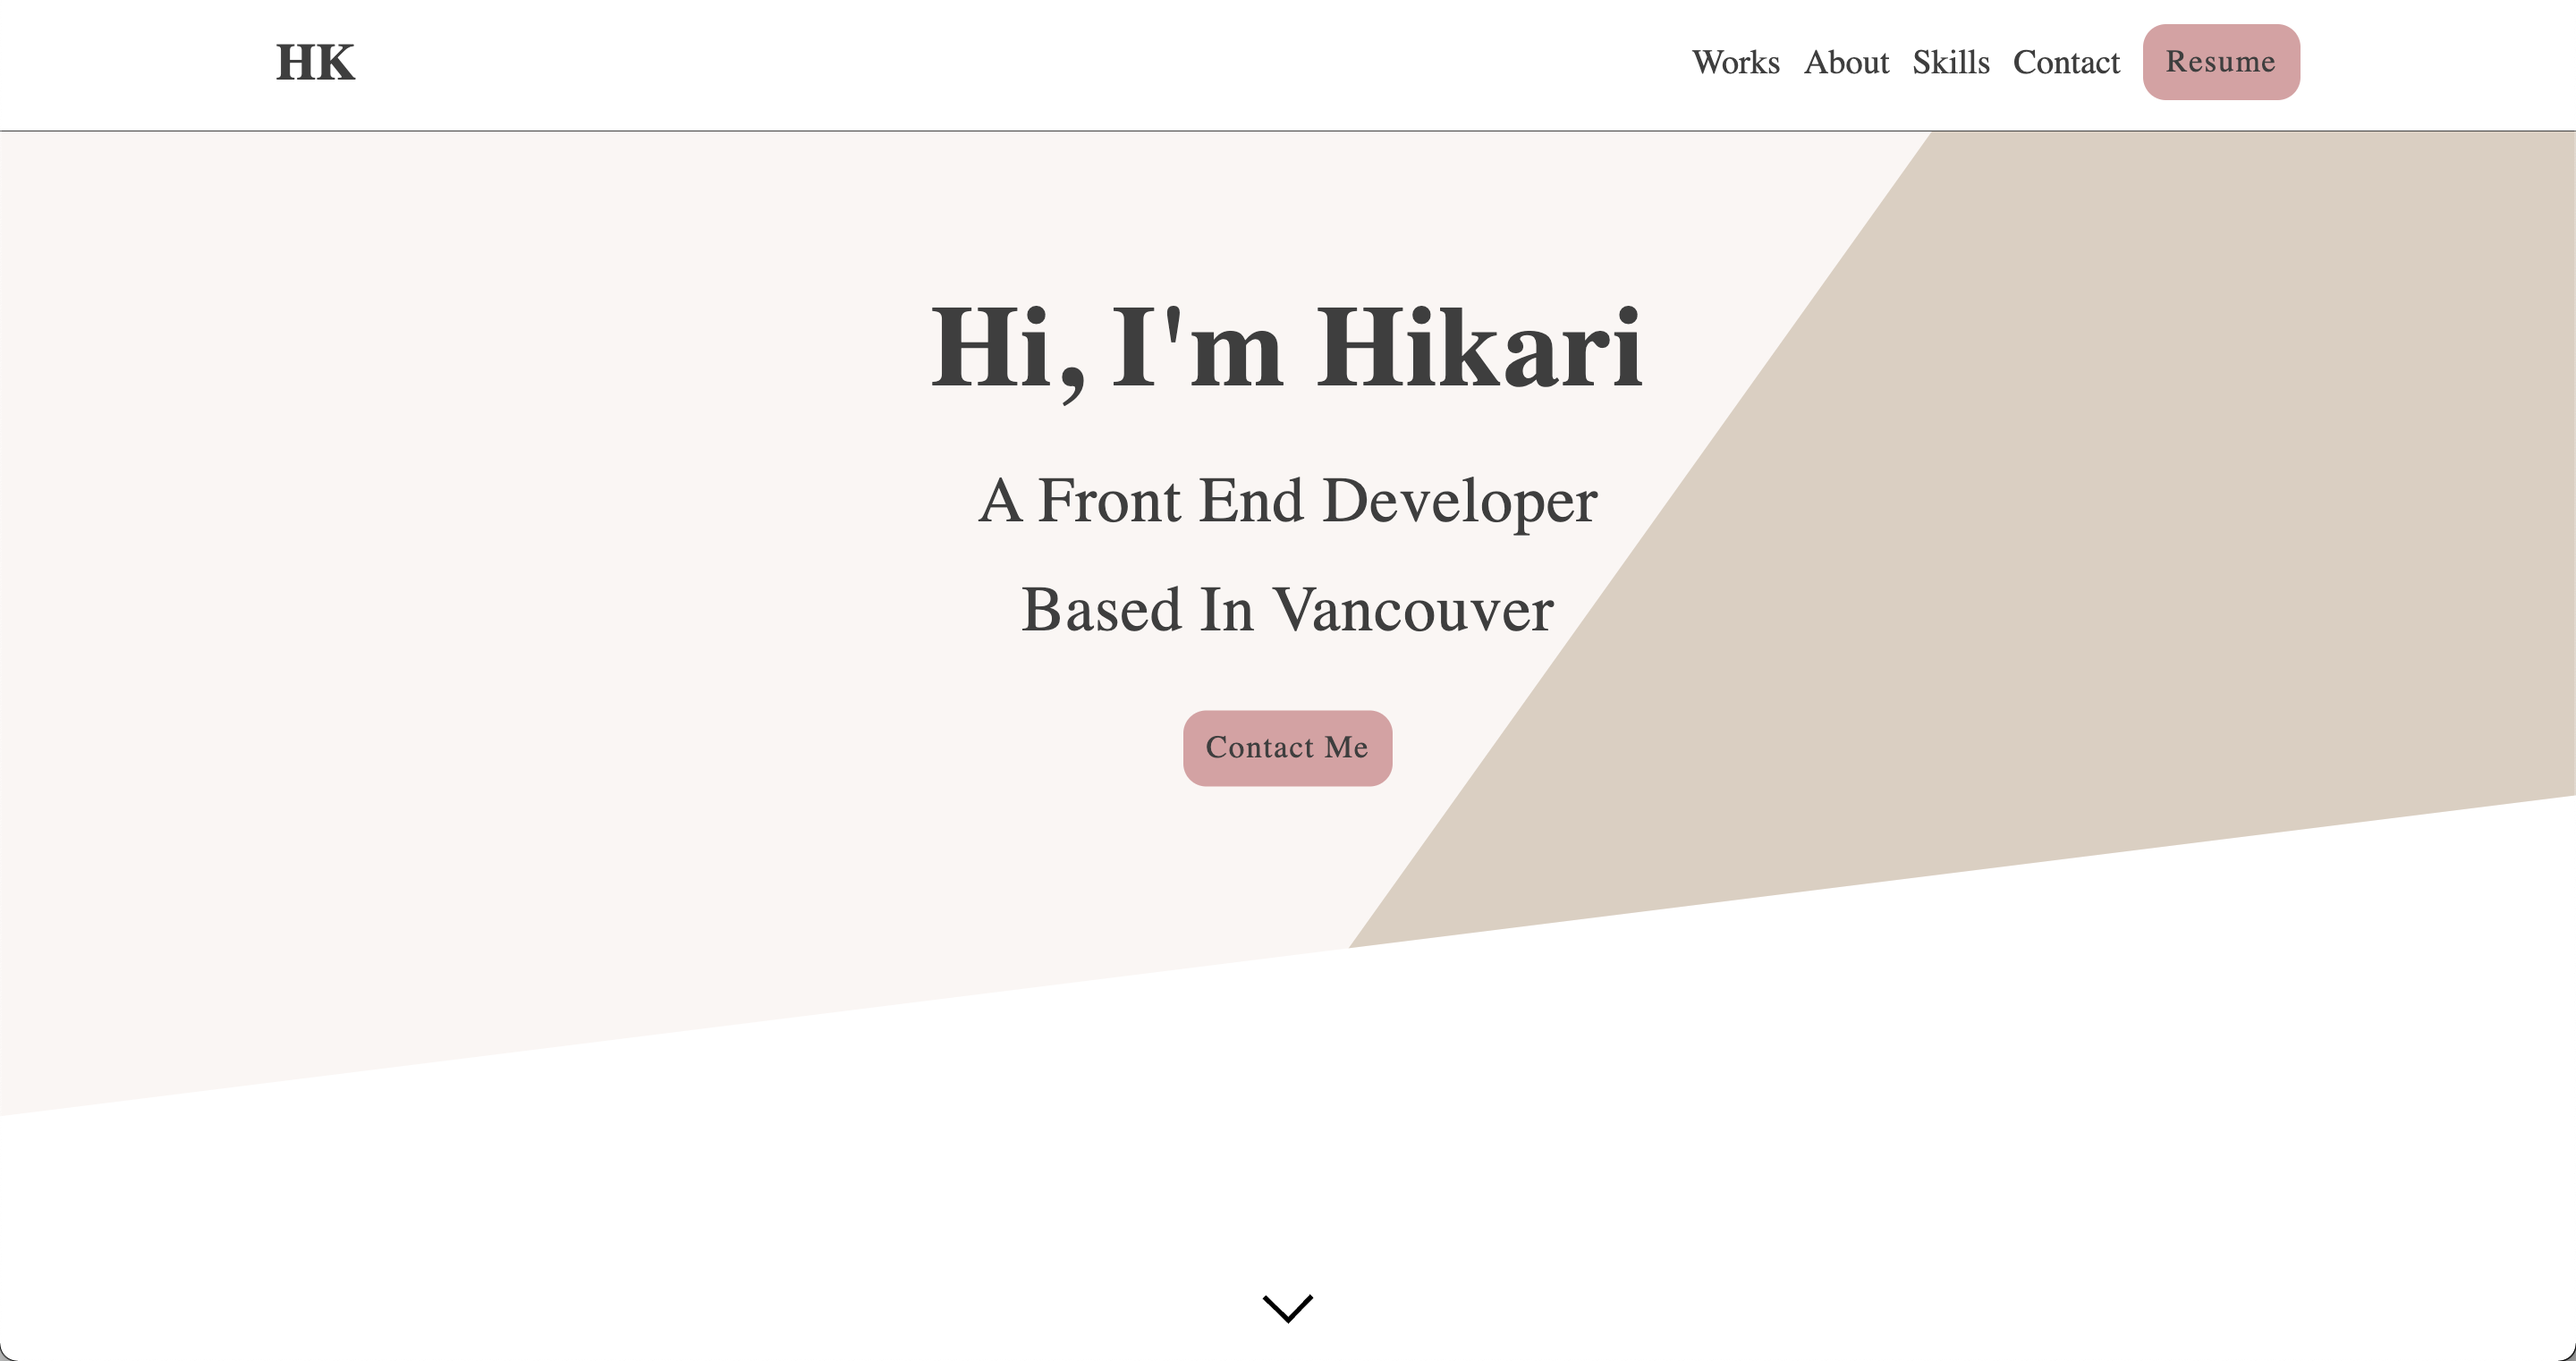
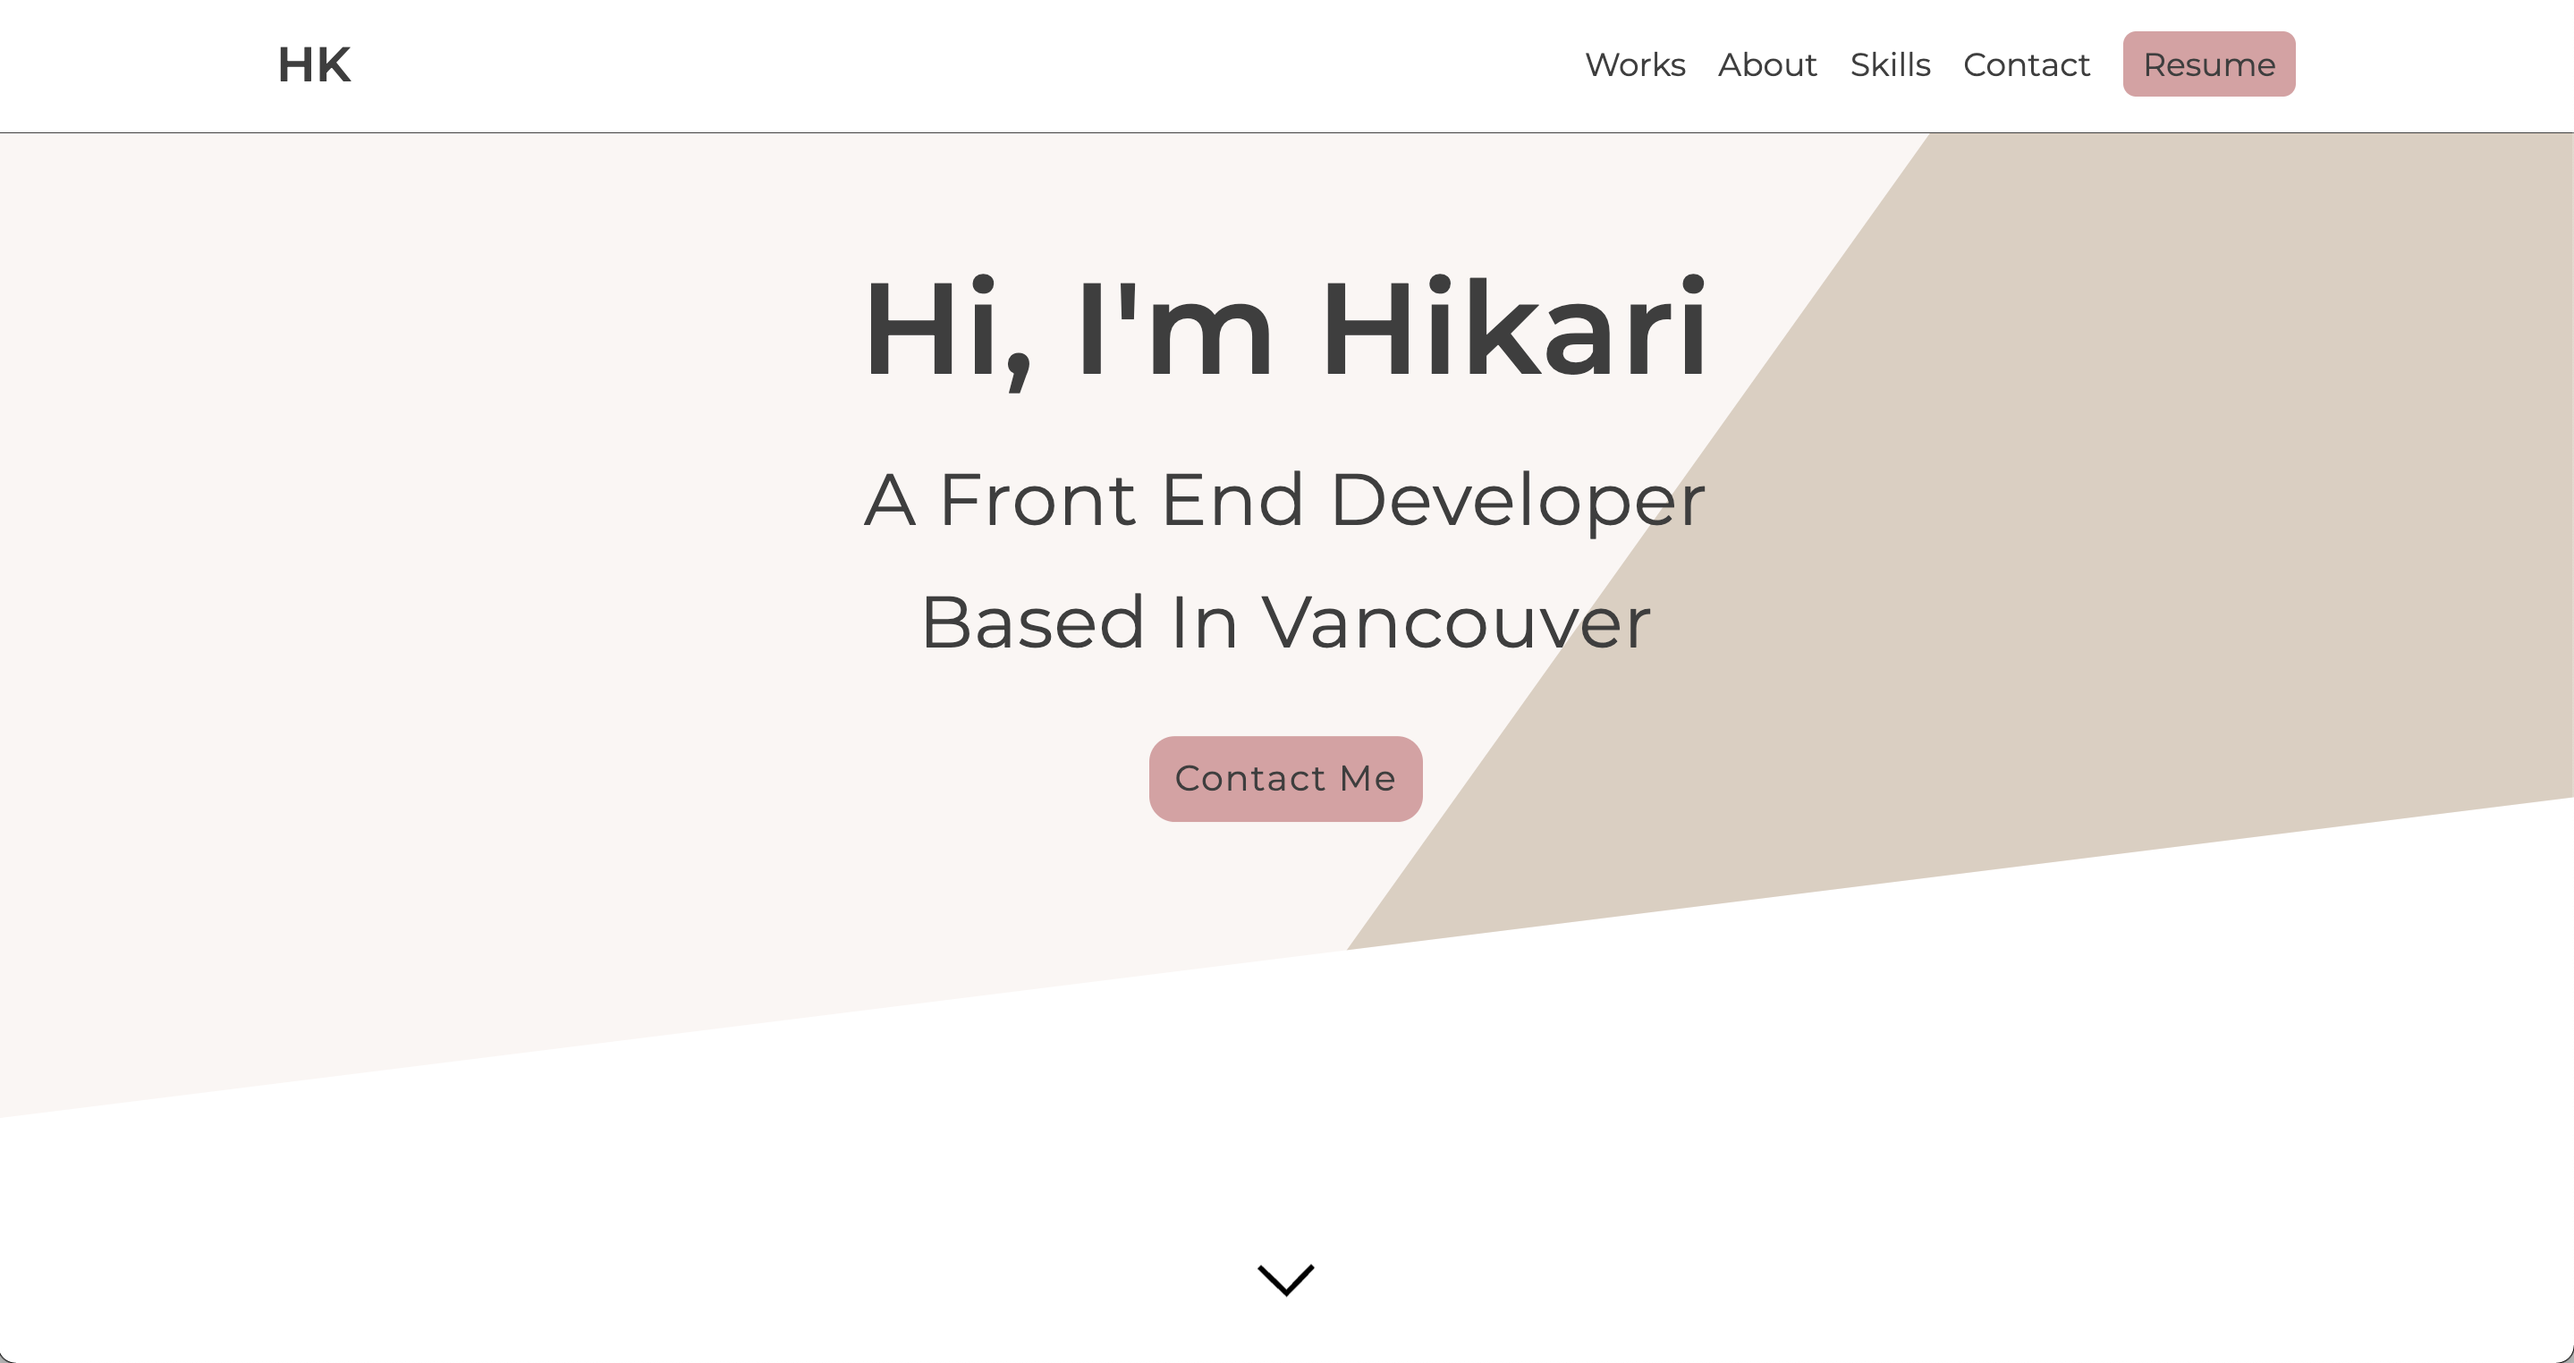
changed font family and added read me

diff --git a/src/components/Navbar/DisplayNav.jsx b/src/components/Navbar/DisplayNav.jsx
@@ -1,6 +1,6 @@
 import React from "react";
 import { Link } from "gatsby";
-import { displayNav, header, btn, ul, li } from "./displaynav.module.scss";
+import { displayNav, header, accent, ul, li } from "./displaynav.module.scss";
 import resume from "../../images/Resume_HikariKobe.pdf";
 import { motion } from "framer-motion";
 const DisplayNav = () => {
@@ -98,8 +98,9 @@ const DisplayNav = () => {
           >
             <Link to="/contact">Contact</Link>
           </motion.li>
-          <motion.button
-            className={`${li} ${btn}`}
+          <motion.li
+            className={`${li} ${accent}`}
+            // className={li}
             initial={{
               opacity: 0,
               y: "-100%",
@@ -115,7 +116,7 @@ const DisplayNav = () => {
             }}
           >
             <a href={resume}>Resume</a>
-          </motion.button>
+          </motion.li>
         </ul>
       </nav>
     </>

diff --git a/src/styles/mixin.scss b/src/styles/mixin.scss
@@ -1,8 +1,9 @@
 @import url("https://fonts.googleapis.com/css2?family=Forum&display=swap");
 @import url("https://unpkg.com/ress/dist/ress.min.css");
-
 @import url("https://fonts.googleapis.com/css2?family=Forum&display=swap");
 
+@import url("https://fonts.googleapis.com/css2?family=Montserrat&display=swap");
+@import url("https://fonts.googleapis.com/css2?family=Poppins:wght@500&display=swap");
 //color
 $primary-color: #d5c6b9;
 $secondary-color: #fdf7f2;
@@ -14,14 +15,15 @@ $accent-bg-color: #ddcec0;
 
 $primary-font-color: #3e3e3e;
 
-$second-font-stack: "Karla", sans-serif;
+// $second-font-stack: "Karla", sans-serif;
+$second-font-stack: "Montserrat", sans-serif;
 
 //font-size
 
 $font-size-h1: 3.8rem;
 $font-size-h2: 3.2rem;
 $font-size-h3: 2rem;
-$font-size-p: 1.4rem;
+$font-size-p: 1.6rem;
 
 @mixin tablet {
   @media only screen and (min-width: 780px) {

diff --git a/src/styles/global.scss b/src/styles/global.scss
@@ -2,16 +2,19 @@
 @import url("https://fonts.googleapis.com/css2?family=Forum&display=swap");
 @import url("https://unpkg.com/ress/dist/ress.min.css");
 @import url("https://fonts.googleapis.com/css2?family=Karla&display=swap");
+@import url("https://fonts.googleapis.com/css2?family=Poppins:wght@500&display=swap");
 
-$font-stack: "Forum", cursive;
-$second-font-stack: "Karla", sans-serif;
+// $font-stack: "Forum", cursive;
+@import url("https://fonts.googleapis.com/css2?family=Montserrat:wght@600&display=swap");
+// $font-stack: "Poppins", sans-serif;
+$font-stack: "Montserrat", sans-serif;
 
 $primary-color: #d5c6b9;
 $primary-bg-color: #fff;
 $primary-font-color: #3e3e3e;
 
 html {
-  font-family: 100% $font-stack;
+  font-family: $font-stack;
   color: $primary-font-color;
   font-size: 62.5%;
 

diff --git a/src/pages/works.module.scss b/src/pages/works.module.scss
@@ -29,29 +29,19 @@
   font-size: mixin.$font-size-p;
   text-align: center;
   font-family: mixin.$second-font-stack;
-  // animation: blinking 1.5s ease-in-out infinite alternate;
 }
-
-// @keyframes blinking {
-//   0% {
-//     opacity: 0;
-//   }
-//   100% {
-//     opacity: 1;
-//   }
-// }
 
 /////
 
 .cardWrapper {
   height: 450px;
-  margin-top: 10%;
+  // margin-top: 10%;
 }
 
 .rowWrapper {
   @include mixin.tablet {
     display: flex;
-    justify-content: space-between;
+    justify-content: center;
     margin-top: 52px;
 
     .cardWrapper {

diff --git a/src/pages/about.module.scss b/src/pages/about.module.scss
@@ -38,6 +38,7 @@
   background-color: mixin.$accent-bg-color;
   border-radius: 8px;
   box-shadow: 20px 10px;
+  font-family: mixin.$second-font-stack;
 
   .h3 {
     padding: 12px 0;
@@ -59,7 +60,7 @@
 .detail {
   justify-content: center;
   width: 90%;
-  font-size: 1.8rem;
+  font-size: mixin.$font-size-p;
   word-break: break-word;
   margin: 24px auto;
   @include mixin.textStyles(none);
@@ -154,7 +155,7 @@
   position: relative;
   border-radius: 50%;
   @include mixin.desktop {
-    margin: 24px auto 12px;
+    margin: 48px auto;
   }
 }
 

diff --git a/src/pages/skills.jsx b/src/pages/skills.jsx
@@ -52,11 +52,11 @@ const skills = () => {
                     <p>CSS3</p>
                   </li>
                   <li>
-                    <SiJavascript size="40px" color="#dca0a2" />
+                    <SiJavascript size="40px" />
                     <p>JavaScript</p>
                   </li>
                   <li>
-                    <SiTypescript size="40px" />
+                    <SiTypescript size="40px" color="#dca0a2" />
                     <p>TypeScript</p>
                   </li>
                   <li>

diff --git a/src/components/Navbar/displaynav.module.scss b/src/components/Navbar/displaynav.module.scss
@@ -29,9 +29,10 @@
     transition: 0.35s ease;
   }
 }
-
-.btn {
-  @include mixin.mainBtn;
+.accent {
+  background-color: mixin.$accent-color;
+  padding: 8px 12px;
+  border-radius: 8px;
 }
 
 .displayNav {

diff --git a/src/pages/works.jsx b/src/pages/works.jsx
@@ -63,6 +63,7 @@ const Works = () => {
                 }
                 image={cookHelper}
               />
+             
             </div>
           </div>
           <div className={rowWrapper}>

diff --git a/src/components/Animation.jsx b/src/components/Animation.jsx
@@ -9,7 +9,7 @@ function AnimateInView({ children }) {
 
   const variants = {
     moved: { y: 0 },
-    initial: { y: 100 },
+    initial: { y: 50 },
   };
   useEffect(() => {
     if (inView) {

diff --git a/src/components/workcard.module.scss b/src/components/workcard.module.scss
@@ -11,9 +11,8 @@
 
 .overLay {
   background-color: rgba(0, 0, 0, 0.8);
-  border-radius: 16px;
   width: 100%;
-  height: 450px;
+  height: 100%;
   border-radius: 10px;
 }
 

diff --git a/README.md b/README.md
@@ -1,99 +1,32 @@
-<!-- AUTO-GENERATED-CONTENT:START (STARTER) -->
-<p align="center">
-  <a href="https://www.gatsbyjs.com">
-    <img alt="Gatsby" src="https://www.gatsbyjs.com/Gatsby-Monogram.svg" width="60" />
-  </a>
-</p>
-<h1 align="center">
-  Gatsby's hello-world starter
-</h1>
+# My portfolio
 
-Kick off your project with this hello-world boilerplate. This starter ships with the main Gatsby configuration files you might need to get up and running blazing fast with the blazing fast app generator for React.
+My portfolio website built by React and Sass.
 
-_Have another more specific idea? You may want to check out our vibrant collection of [official and community-created starters](https://www.gatsbyjs.com/docs/gatsby-starters/)._
+## Demo Link
 
-## 🚀 Quick start
+- [Hikari's portfolio](https://hikari-kobe-h39qmgtde-hikari7.vercel.app/)
 
-1.  **Create a Gatsby site.**
+![The top image](./src/images/portfolioSite.jpg)
 
-    Use the Gatsby CLI ([install instructions](https://www.gatsbyjs.com/docs/tutorial/part-0/#gatsby-cli)) to create a new site, specifying the hello-world starter.
+## Built With
 
-    ```shell
-    # create a new Gatsby site using the hello-world starter
-    gatsby new my-hello-world-starter https://github.com/gatsbyjs/gatsby-starter-hello-world
-    ```
+- `React` : version 18.2.0
+- `Gatsby` : version 5.3.2
+- `Sass` : version 1.57.1
+- `Framer-motion` : version 8.0.1
 
-1.  **Start developing.**
+## Features
 
-    Navigate into your new site’s directory and start it up.
+- T The website isn't used any CSS libraries such as MUI and Tailwind intentionally to try to prove my well-trained CSS skills. Using Sass helped make the website flexible so I also put animation for interacting with the user more dynamically.
+  I put stylings by CSS modules and also designed with Figma from scratch.
 
-    ```shell
-    cd my-hello-world-starter/
-    gatsby develop
-    ```
+## Challenging Part
 
-1.  **Open the source code and start editing!**
+- Destructuring the work card component that part also needed solid knowledge of CSS positioning for the overlay was confusing at first.
+This part looks simple but I was able to apply the knowledge of fundamental CSS, DOM and props that frontend developer needs.
 
-    Your site is now running at `http://localhost:8000`!
+## Setup
 
-    Note: You'll also see a second link: `http://localhost:8000/___graphql`. This is a tool you can use to experiment with querying your data. Learn more about using this tool in the [Gatsby Tutorial](https://www.gatsbyjs.com/docs/tutorial/part-4/#use-graphiql-to-explore-the-data-layer-and-write-graphql-queries).
-
-    Open the `my-hello-world-starter` directory in your code editor of choice and edit `src/pages/index.js`. Save your changes and the browser will update in real time!
-
-## 🚀 Quick start (Gatsby Cloud)
-
-Deploy this starter with one click on [Gatsby Cloud](https://www.gatsbyjs.com/cloud/):
-
-[<img src="https://www.gatsbyjs.com/deploynow.svg" alt="Deploy to Gatsby Cloud">](https://www.gatsbyjs.com/dashboard/deploynow?url=https://github.com/gatsbyjs/gatsby-starter-hello-world)
-
-## 🧐 What's inside?
-
-A quick look at the top-level files and directories you'll see in a typical Gatsby project.
-
-    .
-    ├── node_modules
-    ├── src
-    ├── .gitignore
-    ├── gatsby-browser.js
-    ├── gatsby-config.js
-    ├── gatsby-node.js
-    ├── gatsby-ssr.js
-    ├── LICENSE
-    ├── package.json
-    └── README.md
-
-1.  **`/node_modules`**: This directory contains all of the modules of code that your project depends on (npm packages) are automatically installed.
-
-1.  **`/src`**: This directory will contain all of the code related to what you will see on the front-end of your site (what you see in the browser) such as your site header or a page template. `src` is a convention for “source code”.
-
-1.  **`.gitignore`**: This file tells git which files it should not track / not maintain a version history for.
-
-1.  **`gatsby-browser.js`**: This file is where Gatsby expects to find any usage of the [Gatsby browser APIs](https://www.gatsbyjs.com/docs/reference/config-files/gatsby-browser/) (if any). These allow customization/extension of default Gatsby settings affecting the browser.
-
-1.  **`gatsby-config.js`**: This is the main configuration file for a Gatsby site. This is where you can specify information about your site (metadata) like the site title and description, which Gatsby plugins you’d like to include, etc. (Check out the [config docs](https://www.gatsbyjs.com/docs/reference/config-files/gatsby-config/) for more detail).
-
-1.  **`gatsby-node.js`**: This file is where Gatsby expects to find any usage of the [Gatsby Node APIs](https://www.gatsbyjs.com/docs/reference/config-files/gatsby-node/) (if any). These allow customization/extension of default Gatsby settings affecting pieces of the site build process.
-
-1.  **`gatsby-ssr.js`**: This file is where Gatsby expects to find any usage of the [Gatsby server-side rendering APIs](https://www.gatsbyjs.com/docs/reference/config-files/gatsby-ssr/) (if any). These allow customization of default Gatsby settings affecting server-side rendering.
-
-1.  **`LICENSE`**: This Gatsby starter is licensed under the 0BSD license. This means that you can see this file as a placeholder and replace it with your own license.
-
-1.  **`package.json`**: A manifest file for Node.js projects, which includes things like metadata (the project’s name, author, etc). This manifest is how npm knows which packages to install for your project.
-
-1.  **`README.md`**: A text file containing useful reference information about your project.
-
-## 🎓 Learning Gatsby
-
-Looking for more guidance? Full documentation for Gatsby lives [on the website](https://www.gatsbyjs.com/). Here are some places to start:
-
-- **For most developers, we recommend starting with our [in-depth tutorial for creating a site with Gatsby](https://www.gatsbyjs.com/tutorial/).** It starts with zero assumptions about your level of ability and walks through every step of the process.
-
-- **To dive straight into code samples, head [to our documentation](https://www.gatsbyjs.com/docs/).** In particular, check out the _Guides_, _API Reference_, and _Advanced Tutorials_ sections in the sidebar.
-
-## 💫 Deploy
-
-[Build, Deploy, and Host On The Only Cloud Built For Gatsby](https://www.gatsbyjs.com/products/cloud/)
-
-Gatsby Cloud is an end-to-end cloud platform specifically built for the Gatsby framework that combines a modern developer experience with an optimized, global edge network.
-
-<!-- AUTO-GENERATED-CONTENT:END -->
+- Download or clone the repository
+- Run `npm install`
+- Run `npm run develop` to start running the app
